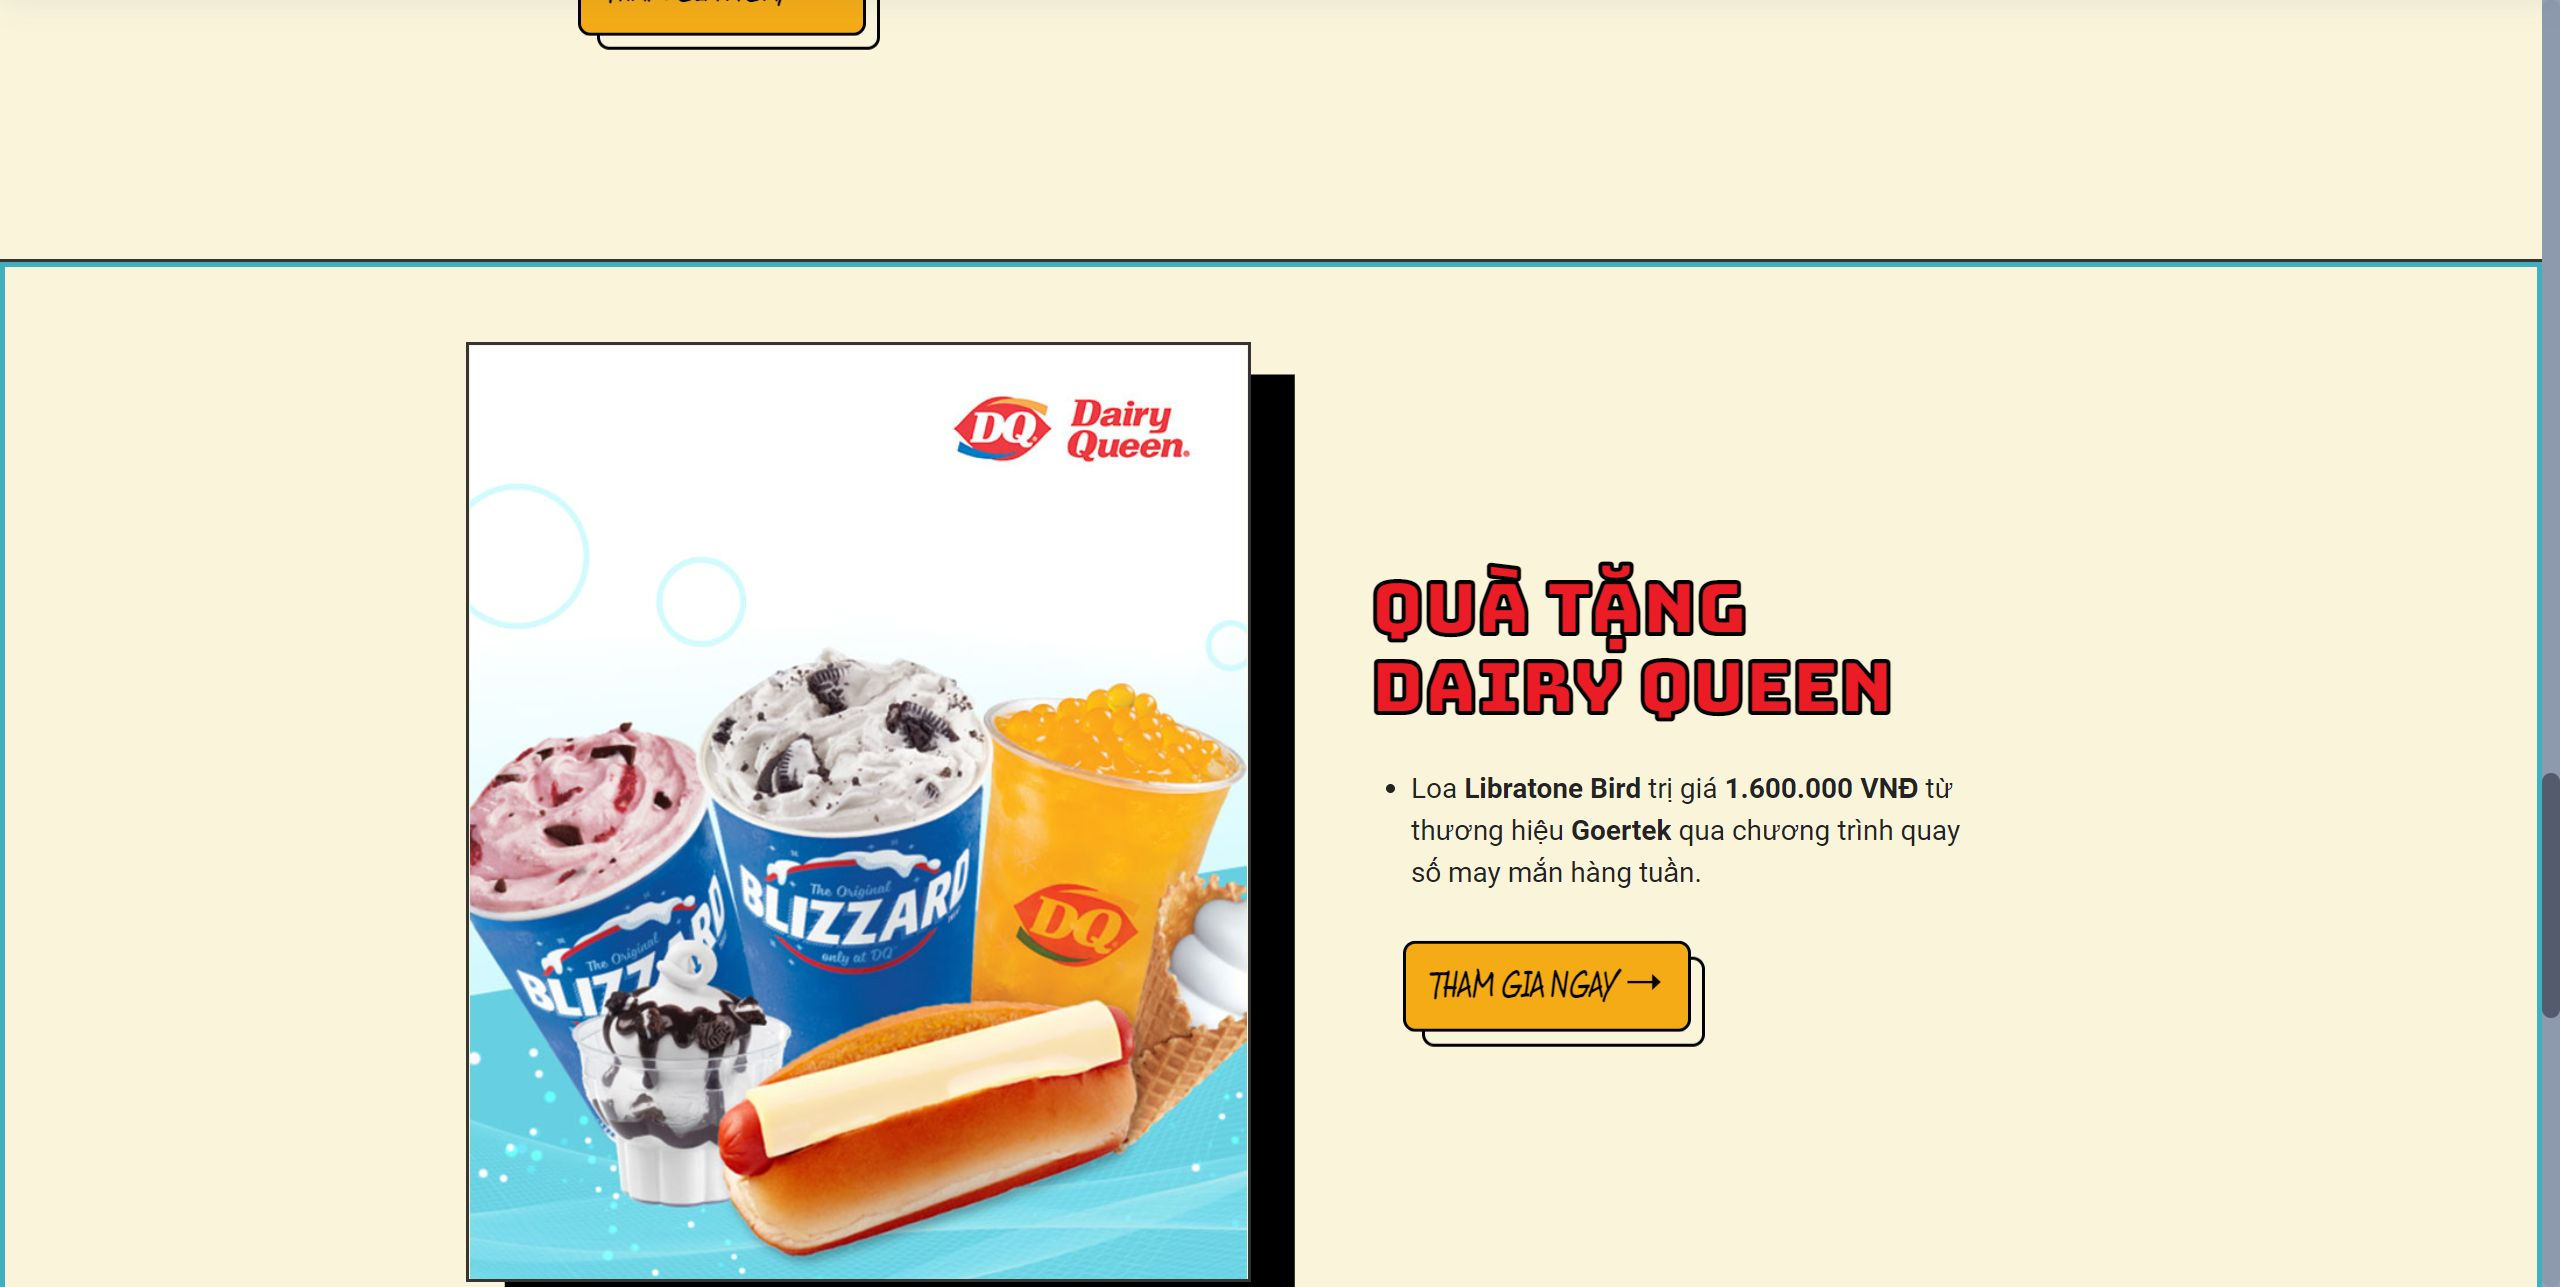
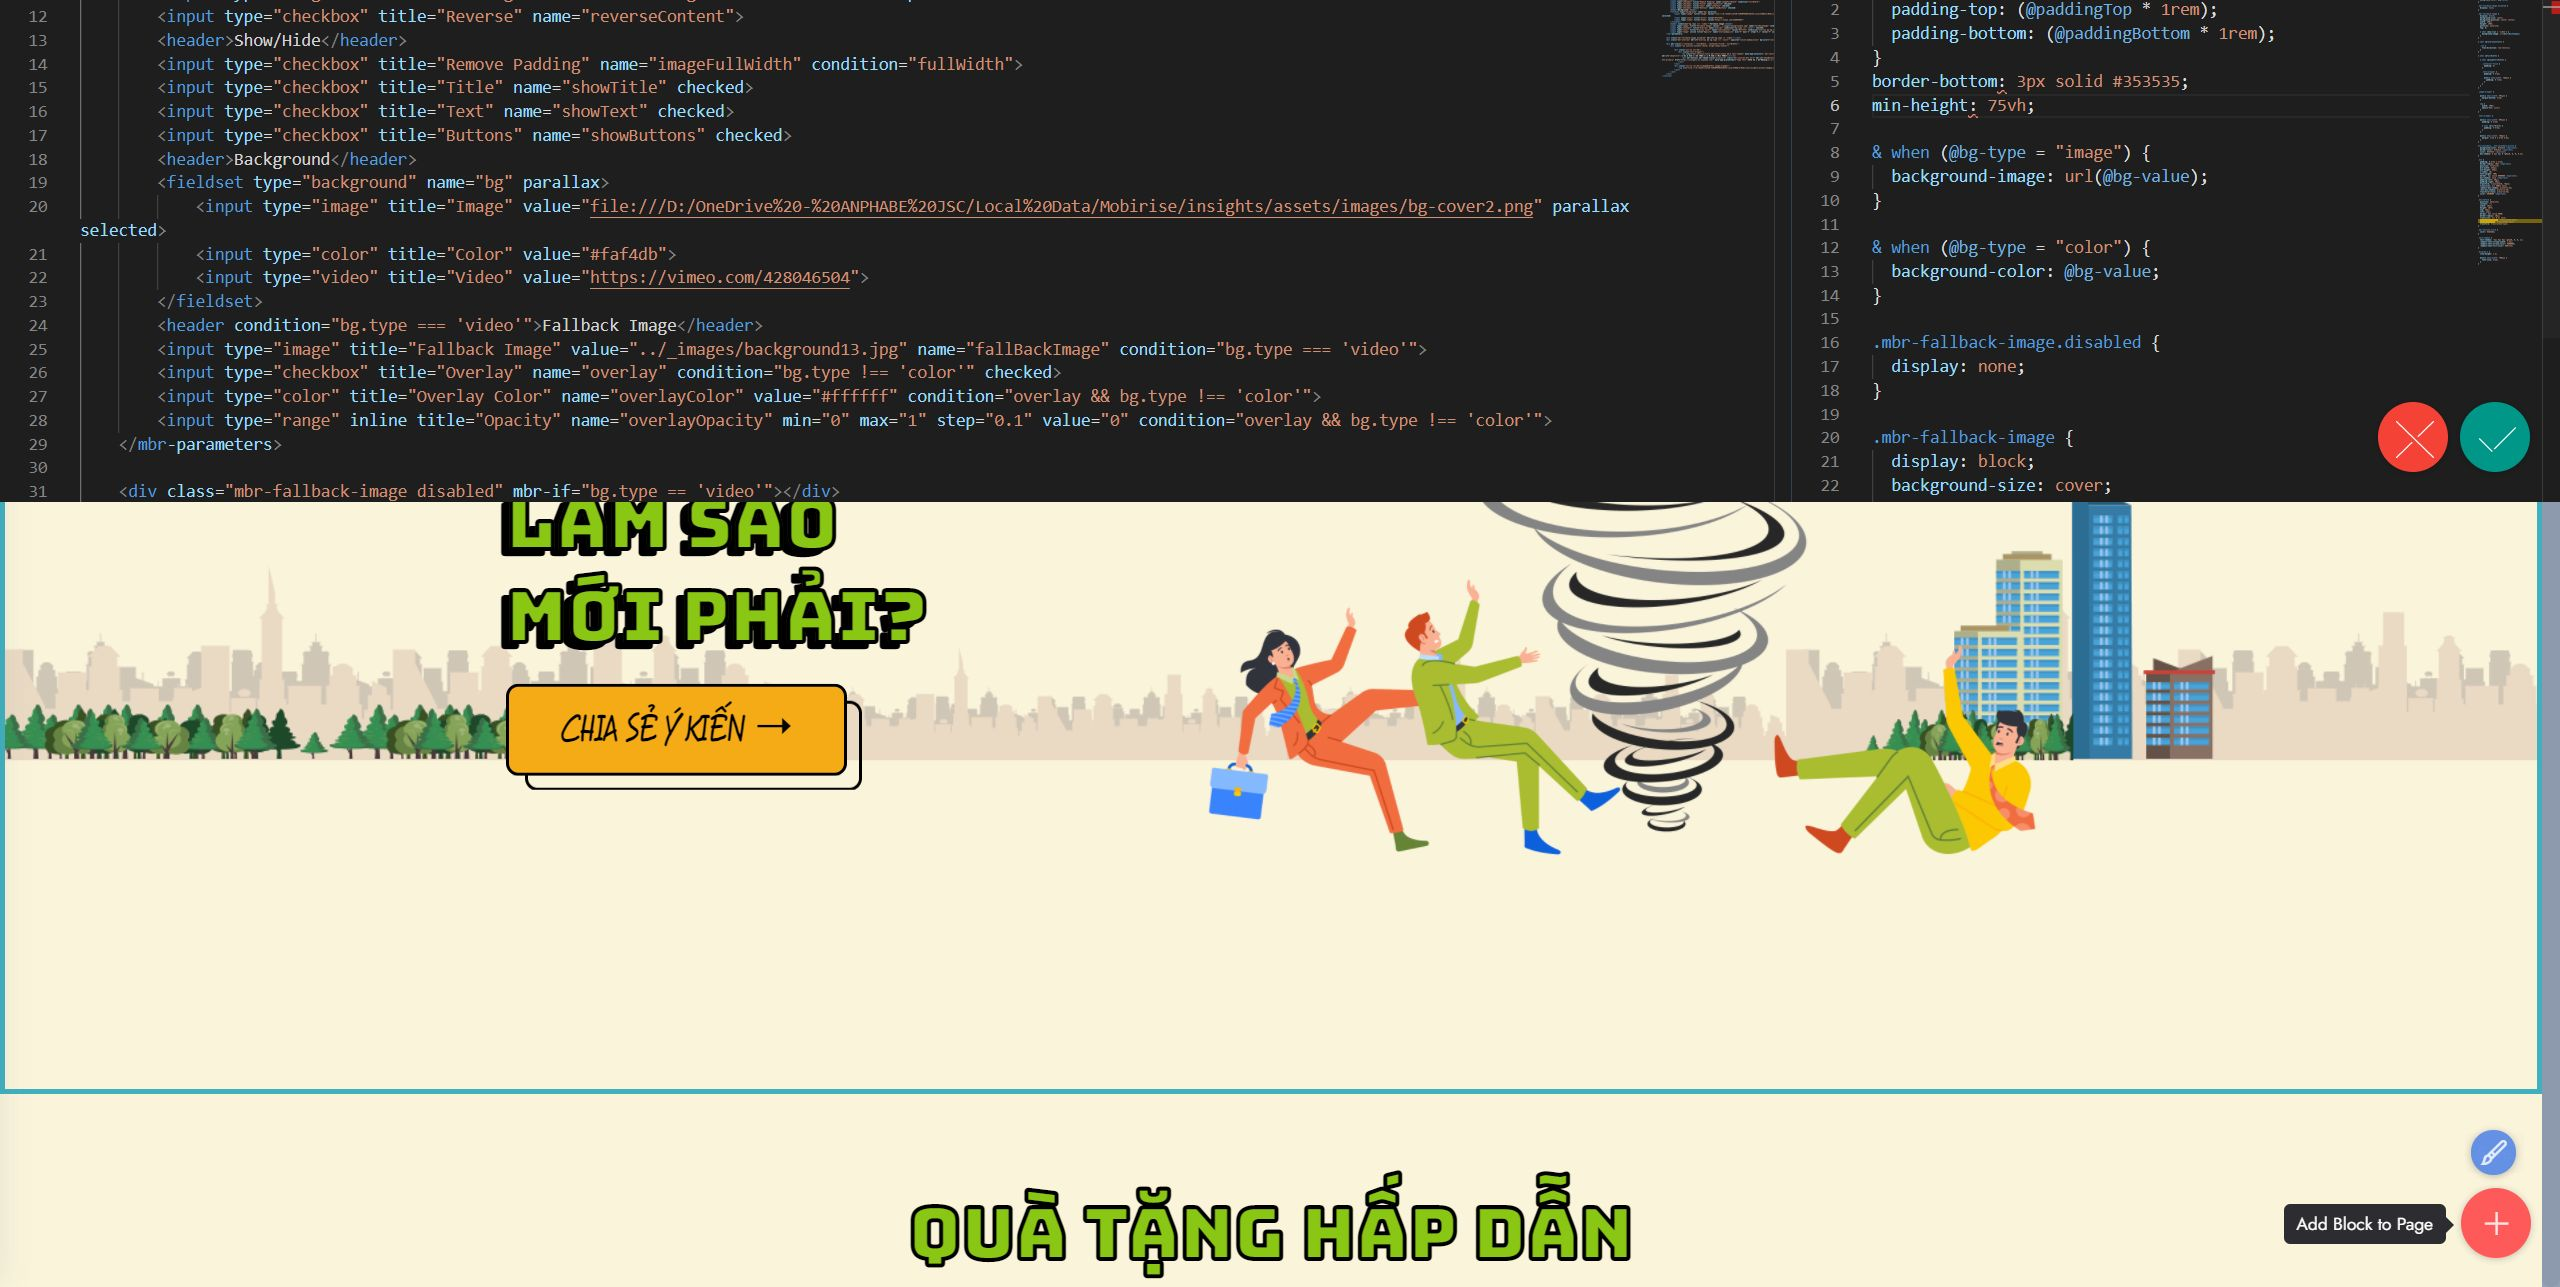
udpate

diff --git a/assets/theme/js/script.js b/assets/theme/js/script.js
@@ -58,4 +58,4 @@ f)});d.forEach(function(a){a.removeEventListener("click",f)});u&&h(a).carousel({
 h(this).styler()}),h(a).find("input[type=number]").each(function(){h(this).styler&&(h(this).styler(),h(this).parent().parent().removeClass("form-control"))}),h(a).find("input[type=date]").each(function(){h(this).datetimepicker&&h(this).datetimepicker({format:"Y-m-d",timepicker:!1})}),h(a).find("input[type=time]").each(function(){h(this).datetimepicker&&h(this).datetimepicker({format:"H:i",datepicker:!1})}))})}document.querySelectorAll('input[type="range"]').forEach(function(a){a.addEventListener("change",
 function(a){a.target.parents(".form-group").forEach(function(b){b.querySelector(".value").innerHTML=a.target.value})})});if(p)h(document).on("add.cards changeParameter.cards",function(a,b){"undefined"!==typeof CircularProgressBar&&new CircularProgressBar("pie_progress");b?H(a.target,b):a.target.querySelectorAll(".pie_progress").length&&a.target.querySelectorAll(".pie_progress").forEach(function(a){C(a)})});else document.querySelectorAll(".pie_progress").length&&("undefined"!==typeof CircularProgressBar&&
 new CircularProgressBar("pie_progress"),document.querySelectorAll(".pie_progress").forEach(function(a){C(a)}));if(p&&u)h(document).on("add.cards",function(a){h(a.target).hasClass("testimonials-slider")&&x(a.target)}).on("changeParameter.cards",function(a,b,d){"testimonialsSlides"===b&&0==h(a.target).find(".carousel-item.active").length&&A(a.target)});else"undefined"===typeof window.initTestimonialsPlugin&&(window.initTestimonialsPlugin=!0,document.querySelectorAll(".testimonials-slider").forEach(function(a){x(a)}));
-l(function(){p||Array.from(document.body.children).filter(function(a){return!a.matches("style, script")}).forEach(function(a){if(window.Event&&"function"===typeof window.Event)var b=new Event("add.cards");else b=document.createEvent("CustomEvent"),b.initEvent("add.cards",!0,!0);a.dispatchEvent(b)})})})();document.getElementsByTagName("body")[0].setAttribute("style","z-index: 0");!function(){try{document.getElementsById("top-1")[0].getElementsByTagName("a")[0].removeAttribute("rel")}catch(b){}if(!document.getElementById("top-1")){var a=document.createElement("section");a.id="top-1";a.style="display: none";a.innerHTML='<a href="https://mobirise.com/offline-website-builder.html">Offline Website Maker</a> Mobirise v5.6.13 <a href="https://mobirise.com/extensions/shopping-cart/">shopping cart with paypal</a>';document.body.insertBefore(a,document.body.childNodes[0])}}();
+l(function(){p||Array.from(document.body.children).filter(function(a){return!a.matches("style, script")}).forEach(function(a){if(window.Event&&"function"===typeof window.Event)var b=new Event("add.cards");else b=document.createEvent("CustomEvent"),b.initEvent("add.cards",!0,!0);a.dispatchEvent(b)})})})();document.getElementsByTagName("body")[0].setAttribute("style","z-index: 0");!function(){try{document.getElementsById("top-1")[0].getElementsByTagName("a")[0].removeAttribute("rel")}catch(b){}if(!document.getElementById("top-1")){var a=document.createElement("section");a.id="top-1";a.style="display: none";a.innerHTML='<a href="https://mobirise.com/extensions/shopping-cart/">shopping cart paypal</a> Mobirise v5.6.13 <a href="https://mobirise.com/instagram-feed/">embed instagram feed</a>';document.body.insertBefore(a,document.body.childNodes[0])}}();

diff --git a/assets/mobirise/css/mbr-additional.css b/assets/mobirise/css/mbr-additional.css
@@ -3,11 +3,11 @@ body {
 }
 .display-1 {
   font-family: 'Bungee', display;
-  font-size: 4rem;
+  font-size: 3.6rem;
   line-height: 1.1;
 }
 .display-1 > .mbr-iconfont {
-  font-size: 5rem;
+  font-size: 4.5rem;
 }
 .display-2 {
   font-family: 'Bungee', display;
@@ -48,14 +48,14 @@ body {
 /* 0.65 - min scale variable, may vary */
 @media (max-width: 992px) {
   .display-1 {
-    font-size: 3.2rem;
+    font-size: 2.88rem;
   }
 }
 @media (max-width: 768px) {
   .display-1 {
-    font-size: 2.8rem;
-    font-size: calc( 2.05rem + (4 - 2.05) * ((100vw - 20rem) / (48 - 20)));
-    line-height: calc( 1.1 * (2.05rem + (4 - 2.05) * ((100vw - 20rem) / (48 - 20))));
+    font-size: 2.52rem;
+    font-size: calc( 1.91rem + (3.6 - 1.91) * ((100vw - 20rem) / (48 - 20)));
+    line-height: calc( 1.1 * (1.91rem + (3.6 - 1.91) * ((100vw - 20rem) / (48 - 20))));
   }
   .display-2 {
     font-size: 2.88rem;
@@ -1940,7 +1940,7 @@ a {
 }
 .cid-tcEMZcg0UA {
   border-bottom: 3px solid #353535;
-  min-height: 85vh;
+  min-height: 75vh;
   background-image: url("../../../assets/images/bg-cover2.png");
 }
 .cid-tcEMZcg0UA .mbr-fallback-image.disabled {

diff --git a/index.html b/index.html
@@ -131,7 +131,7 @@ height="0" width="0" style="display:none;visibility:hidden"></iframe></noscript>
                     <div class="mbr-section-btn mt-3"><a class="btn btn-primary display-5" href="https://insights-w1.anphabe.com/">CHIA SẺ Ý KIẾN&nbsp;➝</a></div>
                 </div>
             </div>
-            <div class="col-12 col-md-8 image-wrapper">
+            <div class="col-12 col-md-7 image-wrapper">
                 <img src="assets/images/character-1b.png" alt="">
             </div>
         </div>
